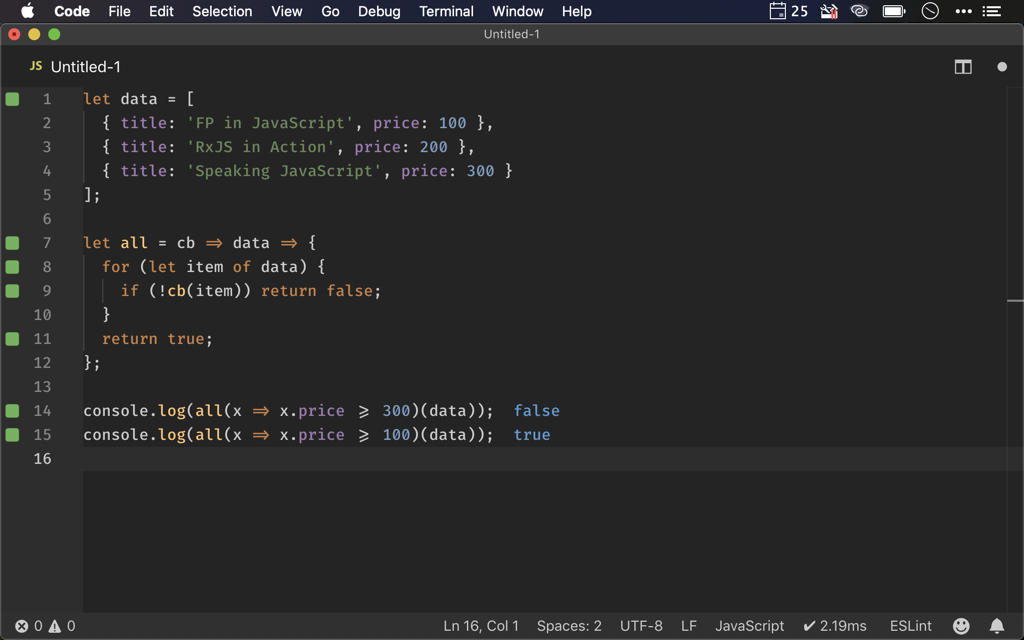
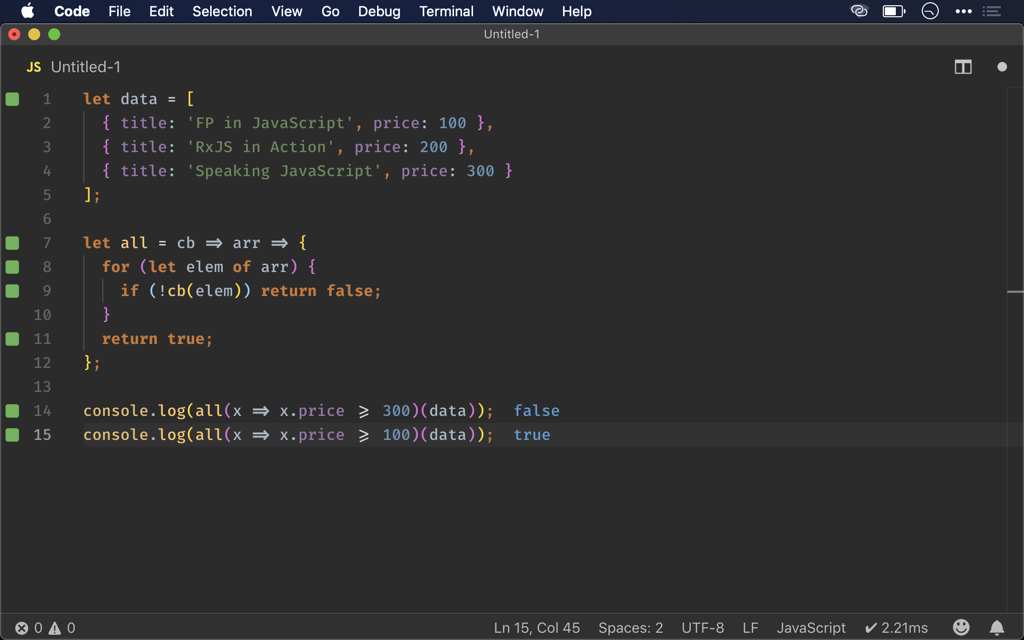
Ramda 之 all()

diff --git a/source/_posts/ramda/all.md b/source/_posts/ramda/all.md
@@ -25,9 +25,9 @@ let data = [
   { title: 'Speaking JavaScript', price: 300 }
 ];
 
-let all = cb => data => {
-  for (let item of data) {
-    if (!cb(item)) return false;
+let all = cb => arr => {
+  for (let elem of arr) {
+    if (!cb(elem)) return false;
   }
   return true;
 };
@@ -53,9 +53,9 @@ console.log(data.every(x => x.price >= 300));
 console.log(data.every(x => x.price >= 100));
 ```
 
-`Array.prototype` 有內建 `every()`，可直接傳入 arrow function 即可。
+`Array.prototype` 有內建 `every()`，直接傳入 arrow function 即可。
 
-> `every()` 就功能上相當於 `all()`，但 `every()` 屬於 OOP 風格，為 data 的 method，而 `all()` 為 FP 風格，data 以參數傳入 function，且為最後一個參數，方便 point-free
+> `every()` 就功能上相當於 `all()`，但 `every()` 屬 OOP 風格，為 data 的 method，而 `all()` 為 FP 風格，data 以 argument 傳入 function，且為最後一個 argument，方便 point-free
 
 ![all001](/images/ramda/all/all001.png)
 
